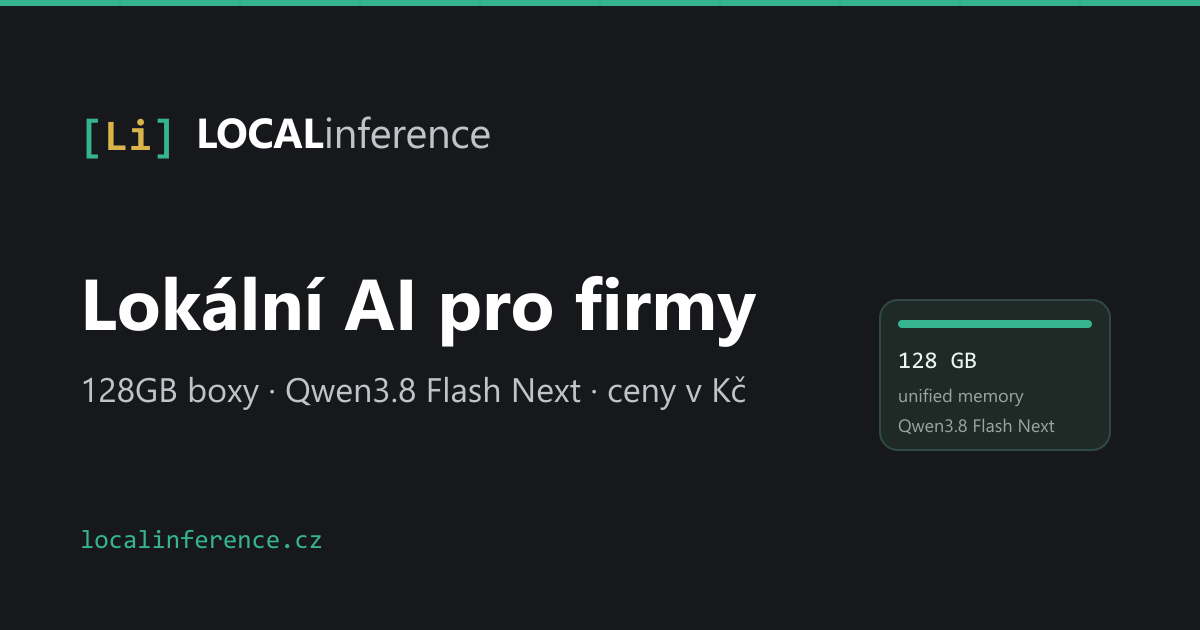
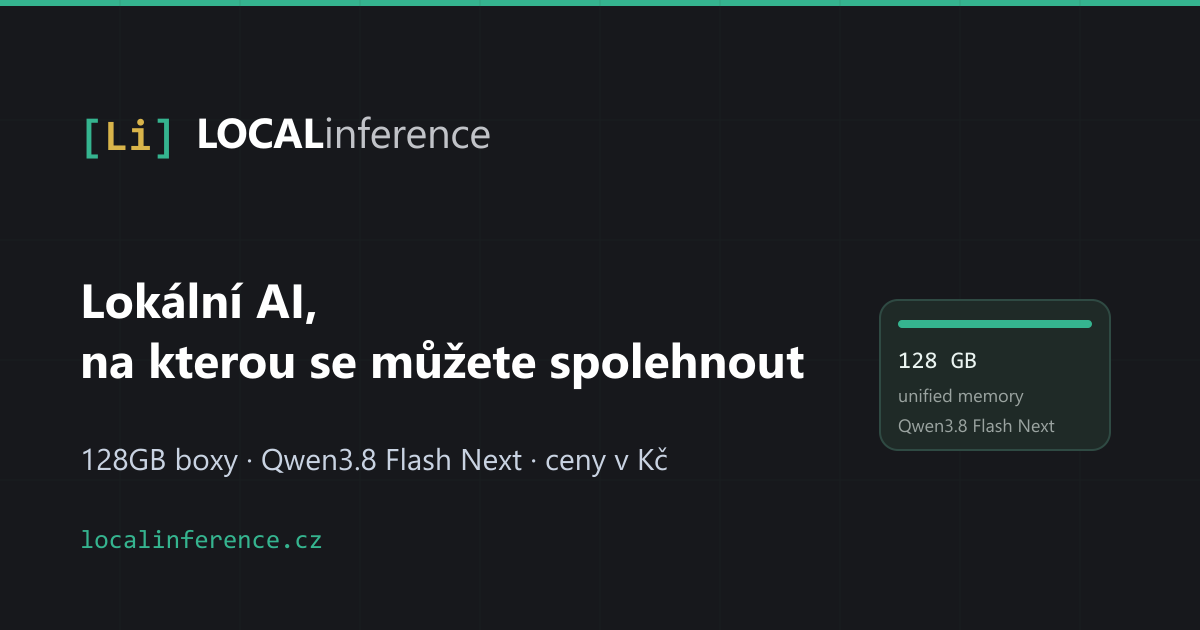
Motto a pozicovani: lokalni AI bez firma-first tonu

Changed region(s): [[0.0617, 0.4222, 0.6783, 0.6635], [0.0617, 0.6937, 0.555, 0.754]]

diff --git a/AGENTS.md b/AGENTS.md
@@ -48,8 +48,8 @@ a co od nich čtenář může čekat.
 
 ### 2.1 Cílová skupina a tón
 
-Píšeme pro **majitele firem, CTO, podnikatele a vedoucí IT**. Mají
-rozpočet na zařízení a chtějí vědět, co od něj čekat — nejsou to
+Píšeme pro **lidi a malé týmy**, které zvážují vlastní AI — živnostníky,
+správce IT, nadšence i firmy. Mají rozpočet na zařízení a chtějí vědět, co od něj čekat — nejsou to
 ML inženýři ani nadšenci do benchmarků.
 
 - **Každá stránka začíná lidsky:** co to je, pro koho to je, co to

diff --git a/sites/cz/src/content/docs/o-webu/jak-piseme.md b/sites/cz/src/content/docs/o-webu/jak-piseme.md
@@ -13,7 +13,7 @@ provozovat.
 
 ## Pro koho píšeme
 
-Pro **majitele firem, CTO, podnikatele a vedoucí IT**. Mají rozpočet na
+Pro **lidi a malé týmy**, které zajímá vlastní AI. Mají rozpočet na
 zařízení a chtějí vědět, co od něj čekat. Nejsou to ML inženýři a nemají
 čas číst všechny tabulky.
 
